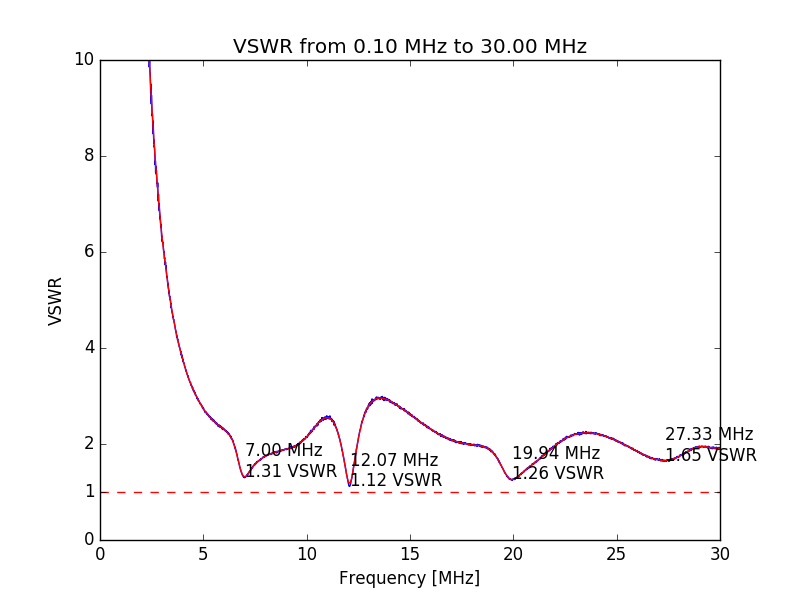
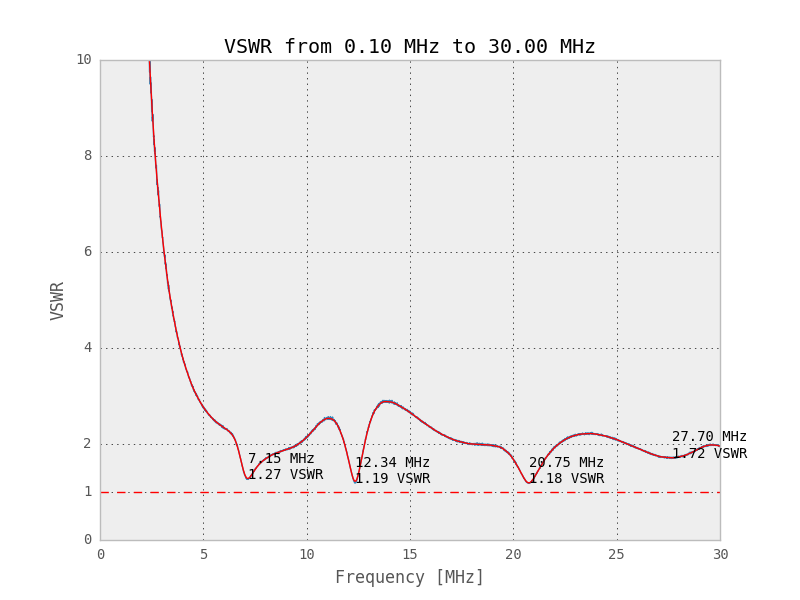
readme: update usage and add installation section

diff --git a/README.md b/README.md
@@ -1,101 +1,186 @@
 # rigexpert-tool [![GitHub release](https://img.shields.io/github/release/vsergeev/rigexpert-tool.svg?maxAge=7200)](https://github.com/vsergeev/rigexpert-tool) [![License](https://img.shields.io/badge/license-MIT-blue.svg)](https://github.com/vsergeev/rigexpert-tool/blob/master/LICENSE)
 
-This is a simple set of Python tools to dump impedance sweeps from a
-[RigExpert](http://www.rigexpert.com/) antenna analyzer, plot sweeps, and
-convert sweeps from impedance to VSWR. The sweeps are stored in CSV.
+`rigexpert-tool` is a CLI tool to dump, plot, and convert impedance sweeps from
+a [RigExpert](http://www.rigexpert.com/) antenna analyzer.
 
-## `rigexpert-dump.py`
+The sweeps are stored in CSV.
 
-Requires `pyserial`.
+## Installation
+
+With pip:
 
 ```
-$ python3 rigexpert-dump.py
-Dump a RigExpert antenna analyzer impedance sweep in CSV to stdout.
+pip install rigexpert-tool
+```
 
-Usage: rigexpert-dump.py <serial port> <center frequency> <sweep range> <number of points>
+With direct file:
 
-Example: Sweep 0.0 - 30.0 MHz with 5000 points
-    python3 rigexpert-dump.py /dev/ttyUSB0 15e6 30e6 5000 > sweep.csv
+```
+wget https://github.com/vsergeev/rigexpert-tool/raw/master/rigexpert_tool.py -O rigexpert-tool
+chmod +x rigexpert-tool
+```
 
-Example: Sweep 7.000 - 7.300 MHz with 300 points
-    python3 rigexpert-dump.py /dev/ttyUSB0 7.150e6 0.300e6 300 > sweep.csv
+## Usage
 
-CSV Format:
-    <freq in MHz>,<resistance in ohms>,<reactance in ohms>
-    e.g. 15.040000,50.56,0.08 is F=15.04 MHz,R=50.56 ohms,X=0.08 ohms
+```
+$ rigexpert-tool
+usage: rigexpert-tool [-h] [--version] {dump,plot,imp2swr} ...
+
+Dump, plot, or convert RigExpert Antenna Analyzer impedance sweeps.
+
+https://github.com/vsergeev/rigexpert-tool
+
+positional arguments:
+  {dump,plot,imp2swr}  command
+    dump               Dump impedance sweep CSV
+    plot               Plot impedance or VSWR sweep CSV
+    imp2swr            Convert sweep CSV from impedance to VSWR
+
+optional arguments:
+  -h, --help           show this help message and exit
+  --version            show program's version number and exit
 $
 ```
 
+### Dump Sweep
+
 ```
-$ python3 rigexpert-dump.py /dev/ttyUSB0 15e6 30e6 3000 > sweep.csv
-Analyzer version: AA-30 103
+$ rigexpert-tool dump -h
+usage: rigexpert-tool dump [-h]
+                           <serial port> <start frequency> <stop frequency>
+                           <number of points> <output CSV>
+
+Dump impedance sweep CSV.
+
+positional arguments:
+  <serial port>       path to serial port, e.g. /dev/ttyUSB0
+  <start frequency>   start frequency
+  <stop frequency>    stop frequency
+  <number of points>  number of points
+  <output CSV>        output sweep CSV
+
+optional arguments:
+  -h, --help          show this help message and exit
+
+Example, sweep 0.0 - 30.0 MHz with 500 points:
+  rigexpert-tool dump /dev/ttyUSB0 0e6 30e6 500 sweep.csv
+
+Example, sweep 7.000 - 7.300 MHz with 500 points:
+  rigexpert-tool dump /dev/ttyUSB0 7.000e6 7.300e6 500 sweep.csv
+
+Impedance CSV Format:
+  <freq in MHz>,<resistance in ohms>,<reactance in ohms>
+  15.040000,50.56,0.08 is F=15.04 MHz,R=50.56 ohms,X=0.08 ohms
+$
+```
+
+Sweep 0.0 to 30 MHz with 3000 points:
+
+```
+$ rigexpert-tool dump /dev/ttyUSB0 0e6 30e6 3000 sweep.csv
+RigExpert Analyzer version: AA-30 111
+
 [===============================---------------------------------------------] 41% 1243/3000
 ...
 $ cat sweep.csv
-0.000000,0.00,12.63
-0.010003,1.72,79.52
-0.020006,6.99,161.06
-0.030010,11.54,245.41
-0.040014,1.84,340.68
-0.050017,18.55,441.84
-0.060020,21.01,588.01
-0.070024,51.35,703.44
+0.000000,57.35,-3.34
+0.010003,50.85,-1.33
+0.020006,50.43,-0.75
+0.030010,50.36,-0.03
+0.040014,49.95,-0.12
+0.050017,50.10,-0.06
+0.060020,49.90,-0.41
+0.070024,49.52,-0.20
+0.080027,50.32,-0.28
+0.090030,50.22,0.39
 ...
 $
 ```
 
-## `rigexpert-csv-plot.py`
-
-Requires `matplotlib`, `scipy`.
+### Plot Sweep
 
 ```
-$ python3 rigexpert-csv-plot.py
-Plot an impedance or VSWR sweep CSV.
+$ rigexpert-tool plot -h
+usage: rigexpert-tool plot [-h] [--annotate] <sweep CSV>
 
-Usage: rigexpert-csv-plot.py <CSV>
+Plot impedance or VSWR sweep CSV.
+
+positional arguments:
+  <sweep CSV>  impedance or VSWR sweep CSV
+
+optional arguments:
+  -h, --help   show this help message and exit
+  --annotate   annotate VSWR minima
+
+Example:
+  rigexpert-tool plot sweep.imp.csv
+
+Example, with annotated VSWR:
+  rigexpert-tool plot --annotate sweep.imp.csv
 $
 ```
 
+Plot sweep with VSWR minima annotated:
+
 ```
-$ python3 rigexpert-csv-plot.py sweep.csv
+$ rigexpert-tool plot --annotate sweep.csv
 ```
 
 ![](example-plot.png)
 
-## `rigexpert-csv-imp2swr.py`
+
+### Convert Sweep
 
 ```
-$ python3 rigexpert-csv-imp2swr.py
+$ rigexpert-tool imp2swr -h
+usage: rigexpert-tool imp2swr [-h] [--smooth] <input CSV> <output CSV>
+
 Convert sweep CSV from impedance to VSWR.
 
-Usage: rigexpert-csv-imp2swr.py [--smooth] <impedance sweep CSV>
+positional arguments:
+  <input CSV>   impedance sweep CSV
+  <output CSV>  VSWR sweep CSV
+
+optional arguments:
+  -h, --help    show this help message and exit
+  --smooth      smooth data points
 
 Example:
-    python3 rigexpert-csv-imp2swr.py sweep.imp.csv > sweep.swr.csv
+  rigexpert-tool imp2swr sweep.imp.csv sweep.swr.csv
 
-Example (smoothed version):
-    python3 rigexpert-csv-imp2swr.py --smooth sweep.imp.csv > sweep.smooth.swr.csv
+Example (smoothed):
+  rigexpert-tool imp2swr --smooth sweep.imp.csv sweep.smooth.swr.csv
 
 Impedance CSV format:
-    <freq in MHz>,<resistance in ohms>,<reactance in ohms>
-    e.g. 15.040000,50.56,0.08 is F=15.04 MHz,R=50.56 ohms,X=0.08 ohms
+  <freq in MHz>,<resistance in ohms>,<reactance in ohms>
+  15.040000,50.56,0.08 is F=15.04 MHz,R=50.56 ohms,X=0.08 ohms
 
 VSWR CSV format:
-     <freq in MHz>,<voltage swr>
-    e.g. 15.040000,1.01131434816733 is F=15.04 MHz,VSWR=1.01131434816733
+  <freq in MHz>,<voltage swr>
+  15.040000,1.01131434816733 is F=15.04 MHz,VSWR=1.01131434816733
 $
 ```
 
+Convert sweep CSV from impedance to VSWR:
+
 ```
-$ python3 rigexpert-csv-imp2swr.py sweep.imp.csv > sweep.swr.csv
+$ rigexpert-tool imp2swr sweep.imp.csv sweep.swr.csv
 $ cat sweep.swr.csv
-6.950000,1.947882757140012
-6.950800,1.9271584205118706
-6.951600,1.9374925755747212
-6.952400,1.9312406172221719
-6.953200,1.9156003387070446
-6.954000,1.9206934559673046
+0.000000,1.162557236161653
+0.010003,1.031797166033004
+0.020006,1.017365430279286
+0.030010,1.0072250465801453
+0.040014,1.0026046865594953
+0.050017,1.002332768022061
+0.060020,1.0084845989693039
+0.070024,1.0105050291804325
+0.080027,1.008513039599767
+0.090030,1.0089758215918863
 ...
 $
 ```
+
+## LICENSE
+
+rigexpert-tool is MIT licensed. See the included [LICENSE](LICENSE) file.
 
